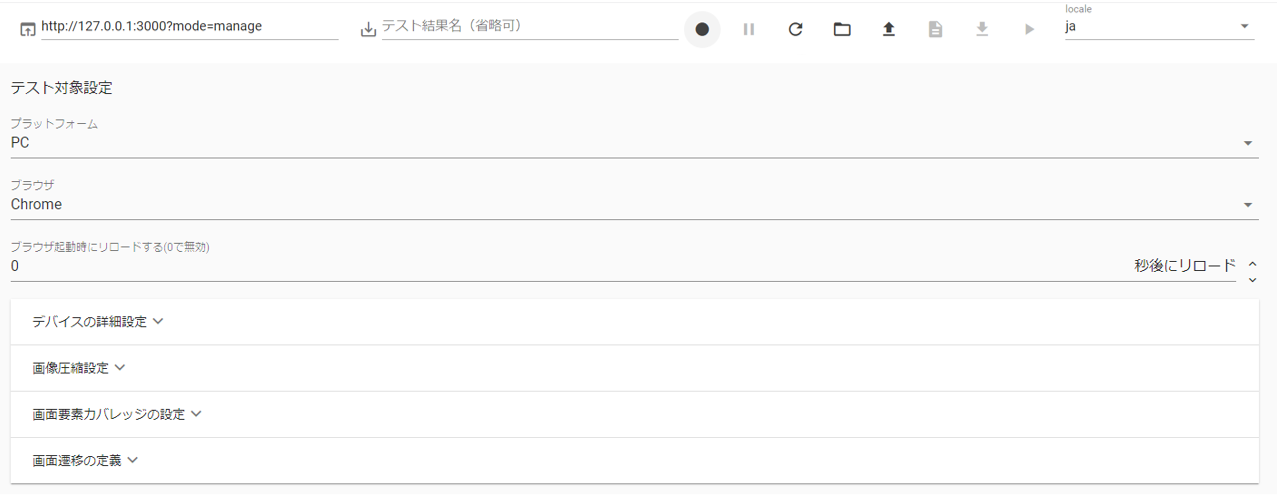
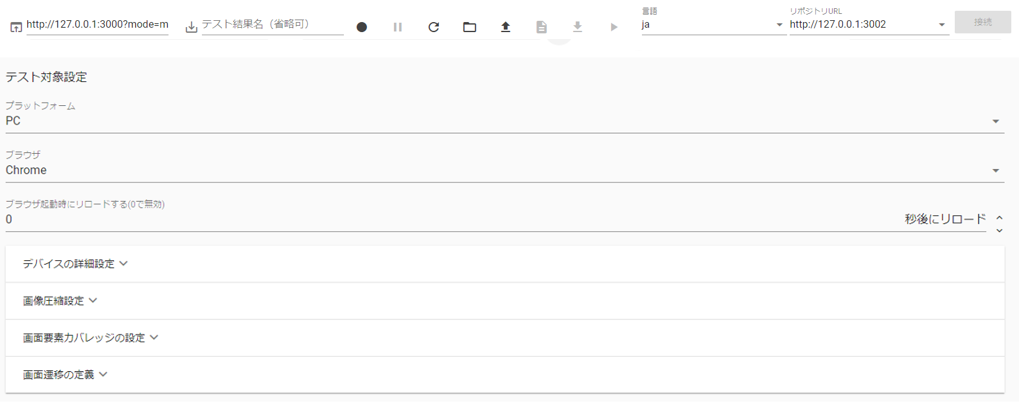
fix #84 remote manual (#95)

diff --git a/docs/manual/management/manual-management.md b/docs/manual/management/manual-management.md
@@ -52,27 +52,38 @@
 
 押下すると「[テスト計画編集画面](#テスト計画編集画面)」を表示します。
 
-### スナップショット出力ボタン
+### キャプチャ設定ボタン
 
-<img src="images/snapshot-button.png" />
+<img src="images/config-button.png" />
 
-押下すると、すべてのテスト計画やセッションのスナップショットが zip ファイルとして出力されます。
+押下すると「[設定画面](#設定画面)」を表示します。
+
+### オプション機能ボタン
+
+<img src="images/option-button.png" />
+
+押下すると以下のオプション機能の一覧を表示します。
+
+- スナップショット出力
+- テストスクリプト生成
+- データインポート
+- データエクスポート
+
+#### スナップショット出力
+
+オプション機能の一覧から押下すると、すべてのテスト計画やセッションのスナップショットが zip ファイルとして出力されます。
 スナップショットはサーバーを介さない閲覧用（編集不可）の HTML と、テストマトリクスごとにセッションに添付されたテスト結果の「テスト目的」「テスト中の気づき」といったデータを一覧化した Excel ファイルから構成されます。
 
 :warning: Excel ファイルのファイル名は`テストマトリクス名.xlsx`で出力されますが、テストマトリクス名にファイルパスとして使用できない記号が含まれている場合、その記号は`_`に置換されて出力されます。
 
-### テストスクリプト生成ボタン
+#### テストスクリプト生成
 
-<img src="images/script-button.png" />
-
-登録された全てのセッションを元にテストスクリプトを生成します。
+オプション機能の一覧から押下すると登録された全てのセッションを元にテストスクリプトを生成します。
 詳細は「[テストスクリプト自動生成](../common/test-script-generation.md)」をご参照ください。
 
-### データインポートボタン
+#### データインポート
 
-<img src="images/data-import.png" />
-
-押下するとインポート対象ファイル選択ダイアログが表示されます。
+オプション機能の一覧から押下するとインポート対象ファイル選択ダイアログが表示されます。
 
 <img src="images/import-dialog.png" />
 
@@ -101,13 +112,11 @@ OK ボタンを押下し、データがインポートされます。
 
 :bulb: zip ファイル名はエクスポート時は上記のように出力されるがファイル名の指定は自由となります。  
 :bulb: 過去バージョンからデータをインポートしたい場合は
-`latteart-repository\public`配下を選択し、zip にしたものをインポートする。
+`latteart-repository\public`配下を選択し、zip にしたものをインポートします。
 
-### データエクスポートボタン
+#### データエクスポートボタン
 
-<img src="images/data-export.png" />
-
-押下するとエクスポート対象選択ダイアログが表示される。
+オプション機能の一覧から押下するとエクスポート対象選択ダイアログが表示されます。
 
 <img src="images/export-dialog.png" />
 
@@ -132,13 +141,7 @@ OK ボタンを押下し、データがエクスポートされます。
         └ テスト結果情報(log.json)
 ```
 
-### キャプチャ設定ボタン
-
-<img src="images/config-button.png" />
-
-押下すると「[設定画面](#設定画面)」を表示します。
-
-### locale
+### 言語
 
 <img src="images/locale.png" />
 
@@ -146,6 +149,22 @@ OK ボタンを押下し、データがエクスポートされます。
 
 - ja（日本語）
 - en（英語）
+
+### リポジトリ URL 入力欄
+
+<img src="images/repository-url.png"/>
+
+リポジトリ URL を入力する欄です。  
+プルダウンを開くと過去に接続したリポジトリ URL が選択候補として表示されます。
+
+### 接続ボタン
+
+<img src="images/connect.png"/>
+
+リポジトリ URL に記載された URL に接続することができます。  
+リポジトリ URL 入力欄に URL を入力すると接続ボタンが押下可能となります。
+
+:bulb:他者のリポジトリ URL（latteart-repositoryURL）を指定することで、他者の環境のデータへアクセス、更新することができます。
 
 ## テスト管理情報
 

diff --git a/docs/manual/capture/manual-capture.md b/docs/manual/capture/manual-capture.md
@@ -14,7 +14,9 @@
   - [スクリプト生成ボタン](#スクリプト生成ボタン)
   - [データエクスポートボタン](#データエクスポートボタン)
   - [履歴再生開始/中止ボタン](#履歴再生開始中止ボタン)
-  - [locale](#locale)
+  - [言語](#言語)
+  - [リポジトリ URL](#リポジトリ-url-入力欄)
+  - [接続ボタン](#接続ボタン)
 - [フッター](#フッター)
   - [ブラウザバック・フォワードボタン](#ブラウザバックフォワードボタン)
   - [タブ・ウィンドウ切り替えボタン](#タブウィンドウ切り替えボタン)
@@ -37,7 +39,7 @@
 
 <img src="./images/header.png"/>
 
-テストの開始や終了、既存のテスト結果の読み込み、記録した操作のリプレイなどを行うことができます。
+テストの開始や終了、過去のテスト結果の読み込み、記録した操作のリプレイなどを行うことができます。
 
 ## URL 入力欄
 
@@ -61,11 +63,14 @@
 
 :bulb: アドホックテスト等、特にテスト目的を決めずにテストを進めたい場合はチェックボックスを OFF にして始めることもできます。
 
+:bulb: リモート接続中の場合は、テスト終了時にテスト結果をリモート接続先にアップロードすることができます。
+
 <img src="./images/start-testing.png" width="400px" />
 
 ダイアログの「OK」ボタンを押下するとブラウザが立ち上がり、「URL 入力欄」で入力された URL のページを表示し、記録が開始されます。
 
-:bulb: 操作内容は`latteart-repository/public/test-results/`配下のディレクトリに保存されます。
+:bulb: 操作内容は`latteart-repository/`配下の`latteart.sqlite`に保存されます。  
+:bulb: バージョン 1.7.5 以前の LatteArt の場合は`latteart-repository/public/test-results/`配下のディレクトリに保存されます。
 
 :warning: LatteArt での記録中に画面遷移等で新しいページを開く際、ページが読み込まれる前に操作をすると LatteArt が正しく記録できない場合があります。完全にページがロードされてから操作するようにしてください。
 
@@ -147,7 +152,7 @@
 押下するとブラウザが立ち上がり、操作のタイミング含め、記録された操作がそのまま自動的に繰り返されます。
 再生開始後に再度押下するとブラウザが閉じ、再生が中止されます。
 
-## locale
+## 言語
 
 <img src="./images/locale.png"/>
 
@@ -155,6 +160,22 @@
 
 - ja（日本語）
 - en（英語）
+
+## リポジトリ URL 入力欄
+
+<img src="./images/repository-url.png"/>
+
+リポジトリ URL を入力する欄です。  
+プルダウンを開くと過去に接続したリポジトリ URL が選択候補として表示されます。
+
+## 接続ボタン
+
+<img src="./images/connect.png"/>
+
+リポジトリ URL に記載された URL に接続することができます。  
+リポジトリ URL 入力欄に URL を入力すると接続ボタンが押下可能となります。
+
+:bulb:他者のリポジトリ URL（latteart-repositoryURL）を指定することで、他者の環境のデータへアクセス、更新することができます。
 
 # フッター
 
